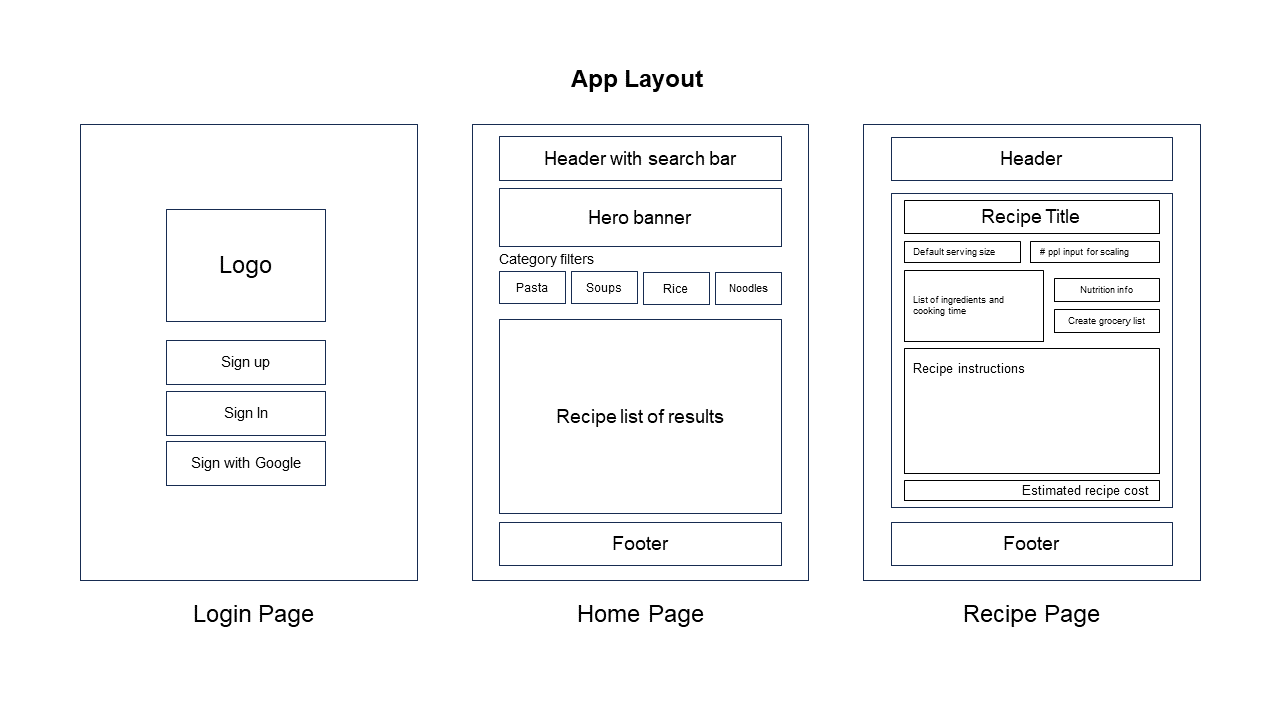
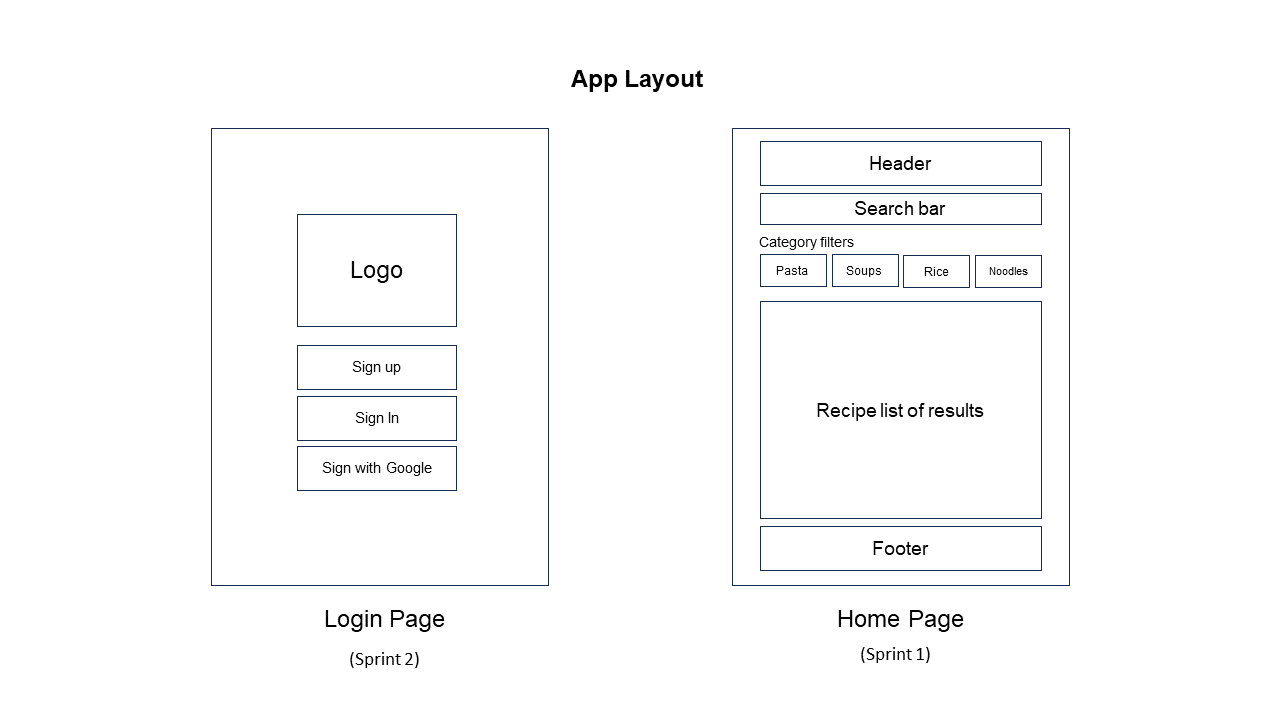
chore: update README.md with updated app wireframes and sprint breakdowns

diff --git a/README.md b/README.md
@@ -47,6 +47,7 @@ This app currently includes the following list of features:
 
 <img src="./public/images/wireframes1.png" alt="app wireframes"/>
 <img src="./public/images/wireframes2.png" alt="app wireframes"/>
+<img src="./public/images/wireframes3.png" alt="app wireframes"/>
 
 
 ### Data
@@ -85,7 +86,7 @@ This app's API server has the following list of endpoints:
       /api/mealtypes
       ```
 
-- POST endpoints
+- POST endpoints *(sprint 2)*
     - Create a user
       ```
       /api/users
@@ -95,7 +96,7 @@ This app's API server has the following list of endpoints:
       /api/users/:id/recipes
       ```
       
-- PUT/PATCH, DELETE endpoints
+- PUT/PATCH, DELETE endpoints *(sprint 2)*
   - Update user info or delete a user
     ```
     /api/users/:id
@@ -122,7 +123,7 @@ This app includes a user login system to allow users to save their favourite rec
 ## Roadmap
 
 ### Sprint 1
-- Home Page, Recipe Page, Collections Page, Grocery List Page
+- Home Page, Recipe Page, User/Collections Page, Grocery List Page
 - Connect to Spoonacular API
 - Create SavoryScale API server and endpoints
   - recipes table 
